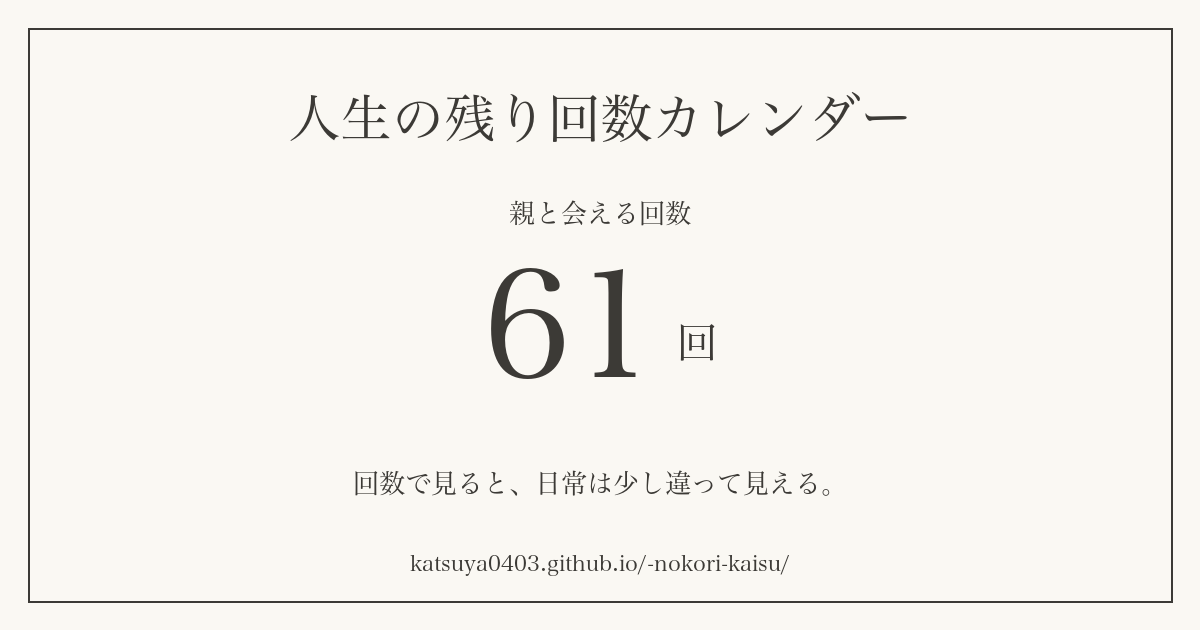
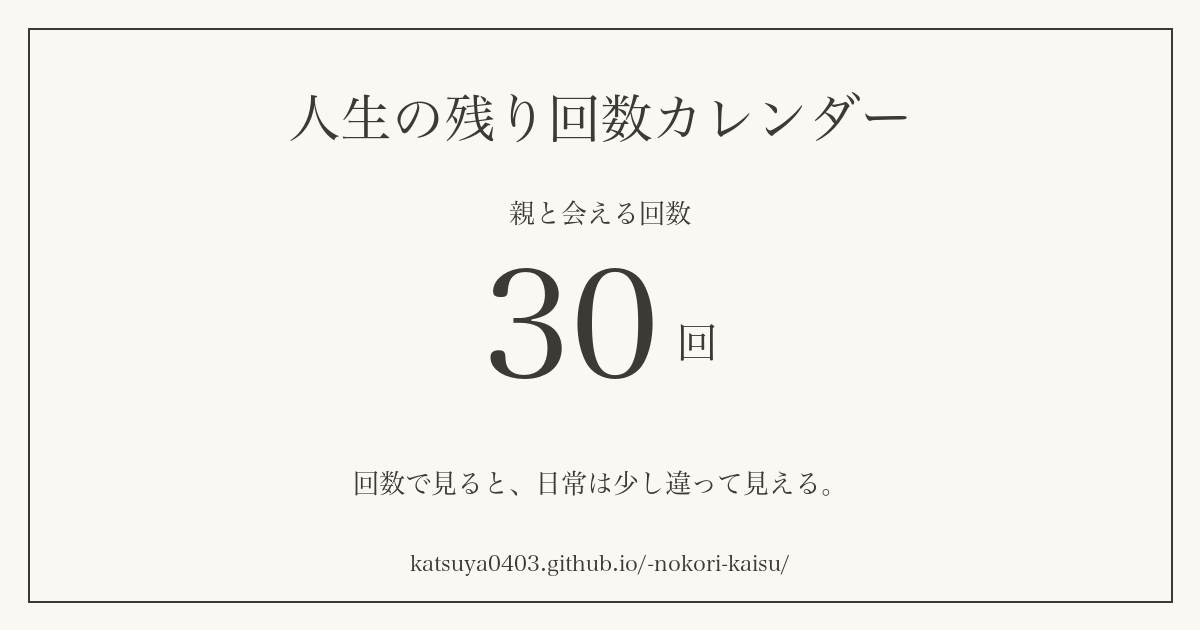
サンプルの親の来訪頻度を年2回→年1回に変更、インパクト強化(61回→30回)

Changed region(s): [[0.4008, 0.4222, 0.555, 0.6032]]

diff --git a/index.html b/index.html
@@ -496,7 +496,7 @@ function load(){
 
 /* ---------- 計算 ---------- */
 const SAMPLE = {profile:{age:30,gender:null,lifeOverride:null,mealsPerDay:3,workUntil:null},
-                parent:{age:58,rel:'mother',meetsPerYear:2,lifeOverride:null}};
+                parent:{age:58,rel:'mother',meetsPerYear:1,lifeOverride:null}};
 function isSample(){ return S.profile.age==null; }
 function P(){ return isSample()? SAMPLE.profile : S.profile; }
 function PA(){ return isSample()? SAMPLE.parent : S.parent; }